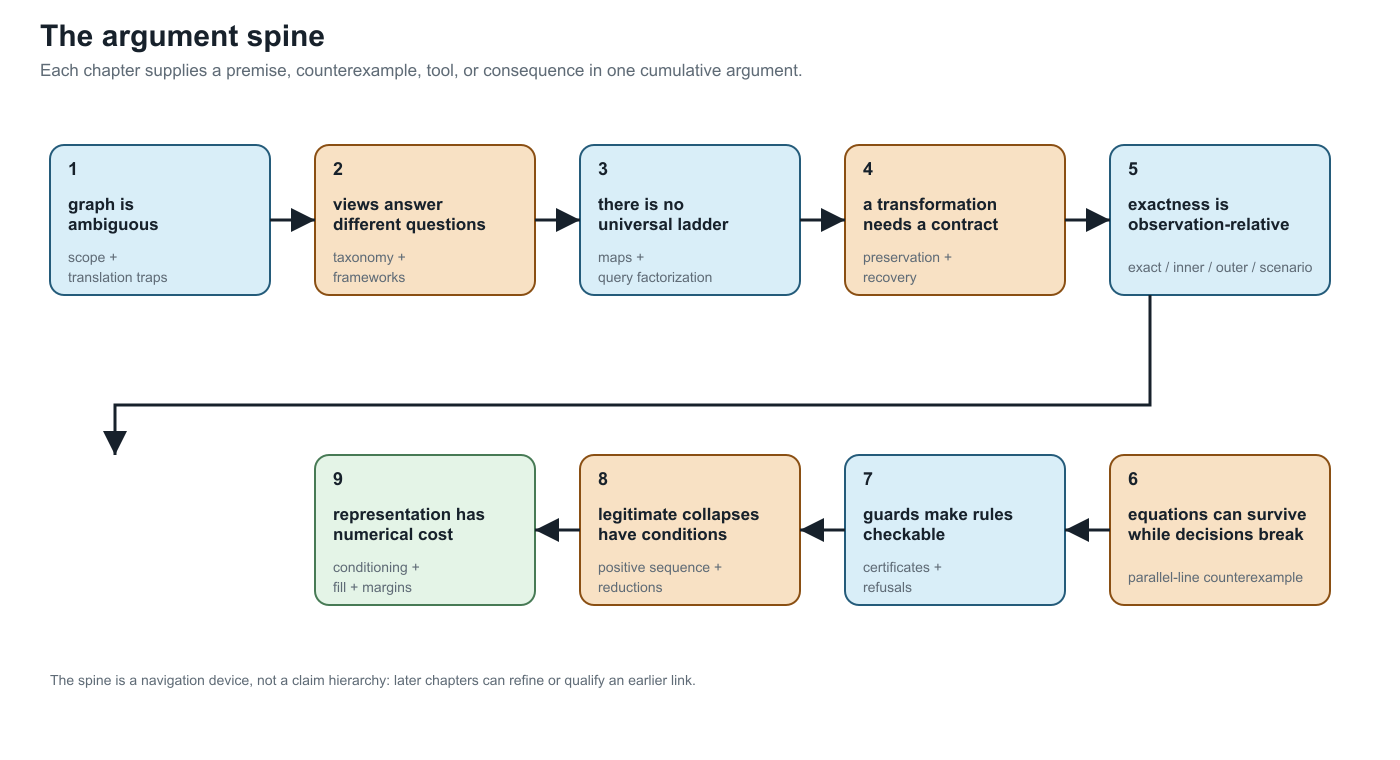
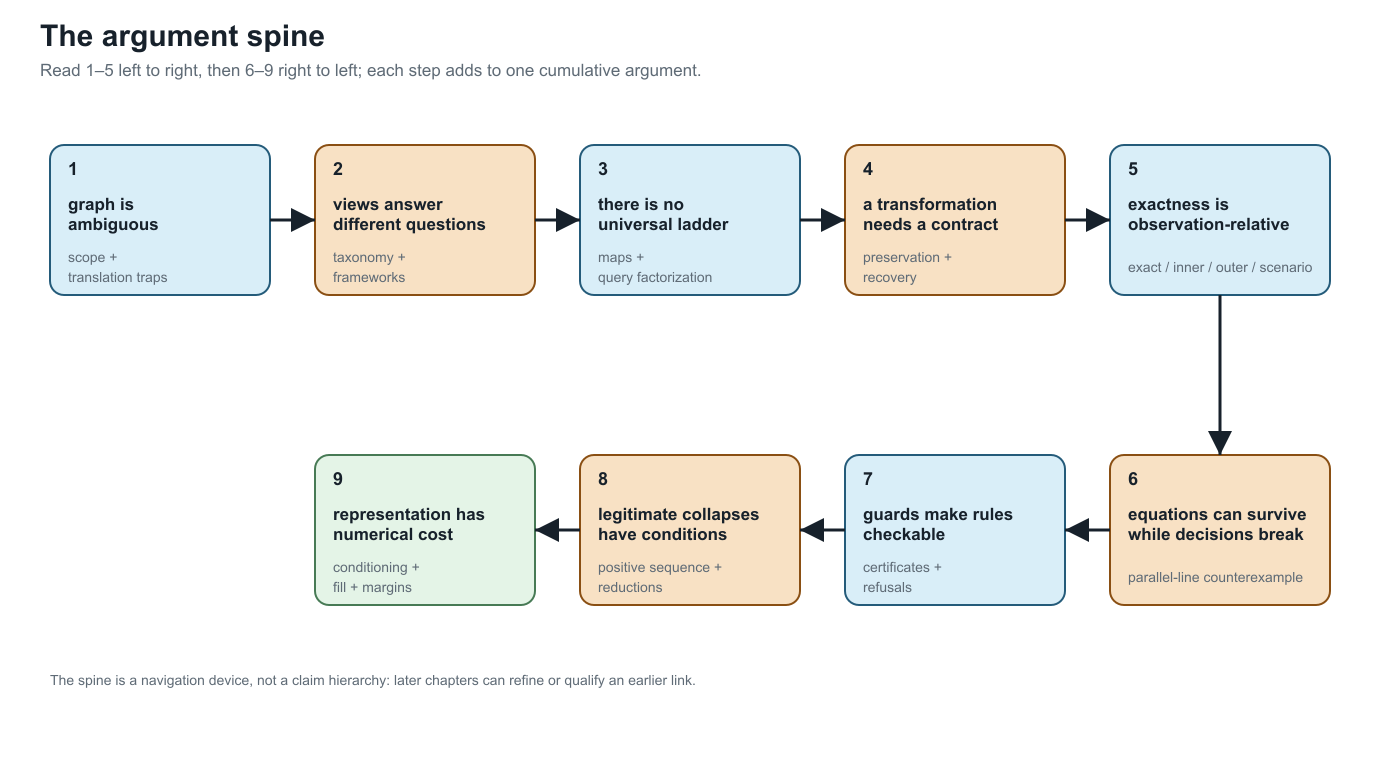
Expose PDF download and clarify argument spine

diff --git a/experiments/render_argument_diagrams.py b/experiments/render_argument_diagrams.py
@@ -147,7 +147,7 @@ def argument_spine() -> str:
         '<style>text{font-family:Arial,sans-serif;fill:#17212b}.title{font-size:30px;font-weight:bold}.sub{font-size:17px;fill:#5f6b76}.step{fill:#d9eef8;stroke:#245b7a;stroke-width:2}.step.alt{fill:#f8e1c4;stroke:#8a4f13}.step.final{fill:#e4f4e7;stroke:#477a55}.num{font-size:18px;font-weight:bold}.head{font-size:17px;font-weight:bold}.small{font-size:14px;fill:#5f6b76}.arrow{stroke:#17212b;stroke-width:3;fill:none;marker-end:url(#arrow)}</style>',
         '<defs><marker id="arrow" markerWidth="10" markerHeight="10" refX="8" refY="4" orient="auto"><path d="M0,0 L8,4 L0,8 z" fill="#17212b"/></marker></defs>',
         txt(40, 46, "The argument spine", "title"),
-        txt(40, 76, "Each chapter supplies a premise, counterexample, tool, or consequence in one cumulative argument.", "sub"),
+        txt(40, 76, "Read 1–5 left to right, then 6–9 right to left; each step adds to one cumulative argument.", "sub"),
     ]
     # Five boxes on the first row and four on the second row, with a serpentine
     # reading order so the complete spine remains legible in print.
@@ -179,7 +179,9 @@ def argument_spine() -> str:
     for i in range(4):
         x = positions[i][0] + 220
         lines.append(f'<path d="M{x} 220 L{x + 45} 220" class="arrow"/>')
-    lines.append('<path d="M1150 295 L1150 405 L115 405 L115 455" class="arrow"/>')
+    # Step 5 turns directly down into step 6. Sending this connector across the
+    # empty left margin makes the layout look as if a tenth box is missing.
+    lines.append('<path d="M1220 295 L1220 455" class="arrow"/>')
     for i in range(3):
         x = positions[5 + i][0]
         lines.append(f'<path d="M{x} 530 L{x - 45} 530" class="arrow"/>')

diff --git a/README.md b/README.md
@@ -5,6 +5,9 @@
 [![CI](https://github.com/frederikgeth/multi-graph-book/actions/workflows/docs.yml/badge.svg)](https://github.com/frederikgeth/multi-graph-book/actions/workflows/docs.yml)
 [![Docs](https://img.shields.io/badge/docs-GitHub%20Pages-blue)](https://frederikgeth.github.io/multi-graph-book/)
 
+[Read the HTML book](https://frederikgeth.github.io/multi-graph-book/dev/) ·
+[Download the long-form PDF](https://frederikgeth.github.io/multi-graph-book/dev/GraphModelsForPowerSystems.pdf)
+
 > [!WARNING]
 > This is a rapidly evolving, early-stage initiative. Structure, terminology, claims, and APIs
 > (including the LLM-accessibility routes below) can change without notice. Nothing here should
@@ -84,8 +87,9 @@ monograph pages in argument order. Build it locally with
 publishing is set up (see the note in that section).
 
 **c) PDF (Tectonic).** A single-file serialization following the monograph's argument route; it
-does not reproduce the knowledge base's retrieval indexes. Build it locally with the bundled
-Tectonic artifact, also described under [Build locally](#build-locally).
+does not reproduce the knowledge base's retrieval indexes. [Download the rendered
+PDF](https://frederikgeth.github.io/multi-graph-book/dev/GraphModelsForPowerSystems.pdf), or build
+it locally with the bundled Tectonic artifact as described under [Build locally](#build-locally).
 
 **d) MCP access for LLMs.** A retrieval interface over the same corpus for LLM clients, closer in
 spirit to the knowledge base than the monograph — an LLM client can query the book directly

diff --git a/docs/src/index.md b/docs/src/index.md
@@ -2,6 +2,10 @@
 
 **Page status:** reader-facing overview and navigation map.
 
+!!! info "Read or download"
+    Read the searchable HTML book here, or [download the long-form
+    PDF](GraphModelsForPowerSystems.pdf) for the argument-shaped monograph.
+
 *Graphs, reductions, and decision boundaries*
 
 This book starts with a failure mode: a familiar power-network representation
@@ -24,6 +28,10 @@ The central thesis is:
 > with preservation and recovery contracts.
 
 ![The argument spine of the book.](assets/argument-spine.png)
+
+Read the numbered spine from 1 to 5 across the first row, then continue down
+to 6 and follow the second row from right to left through 9. The arrows show
+reading order, not logical implication or a hierarchy of claims.
 
 ## The argument route
 
